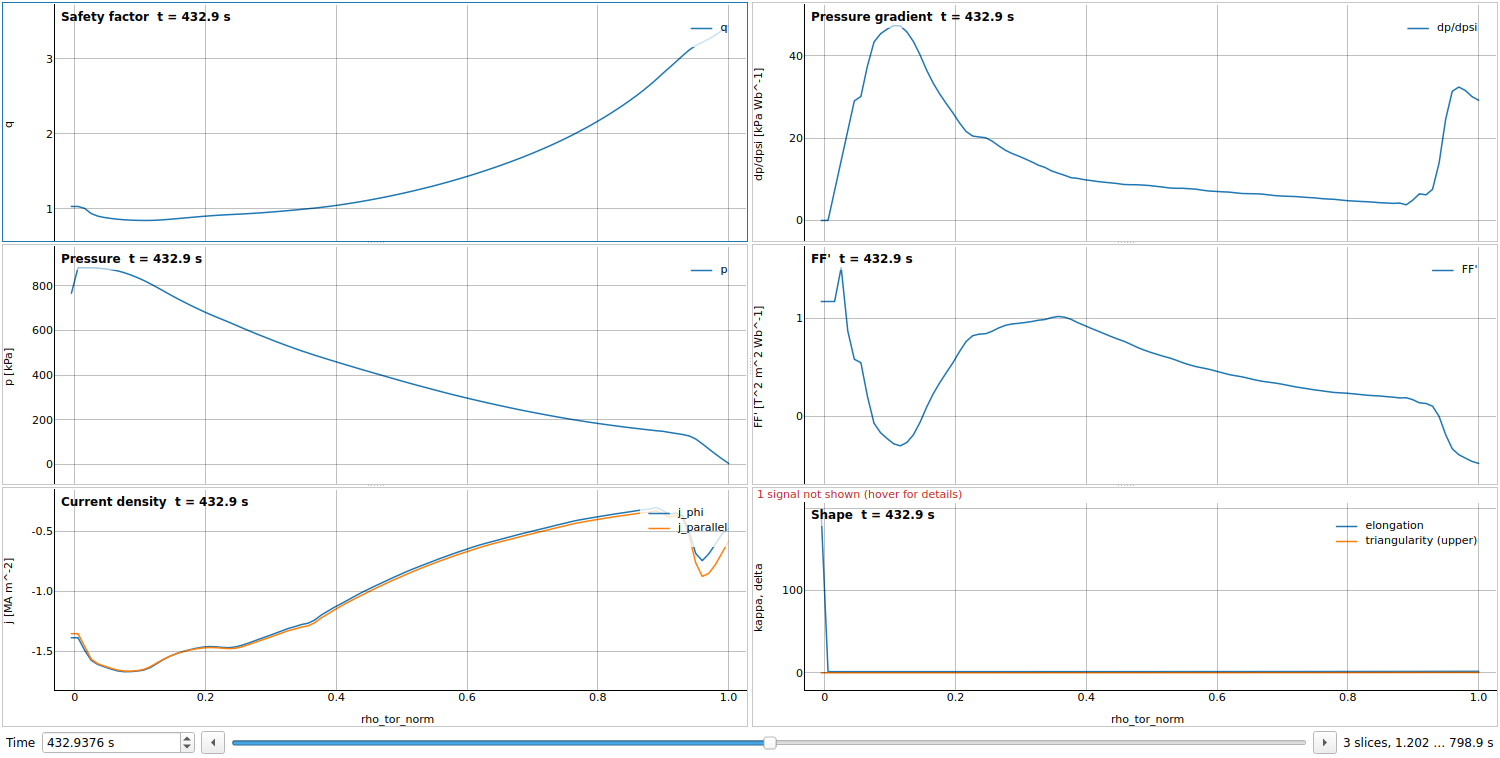
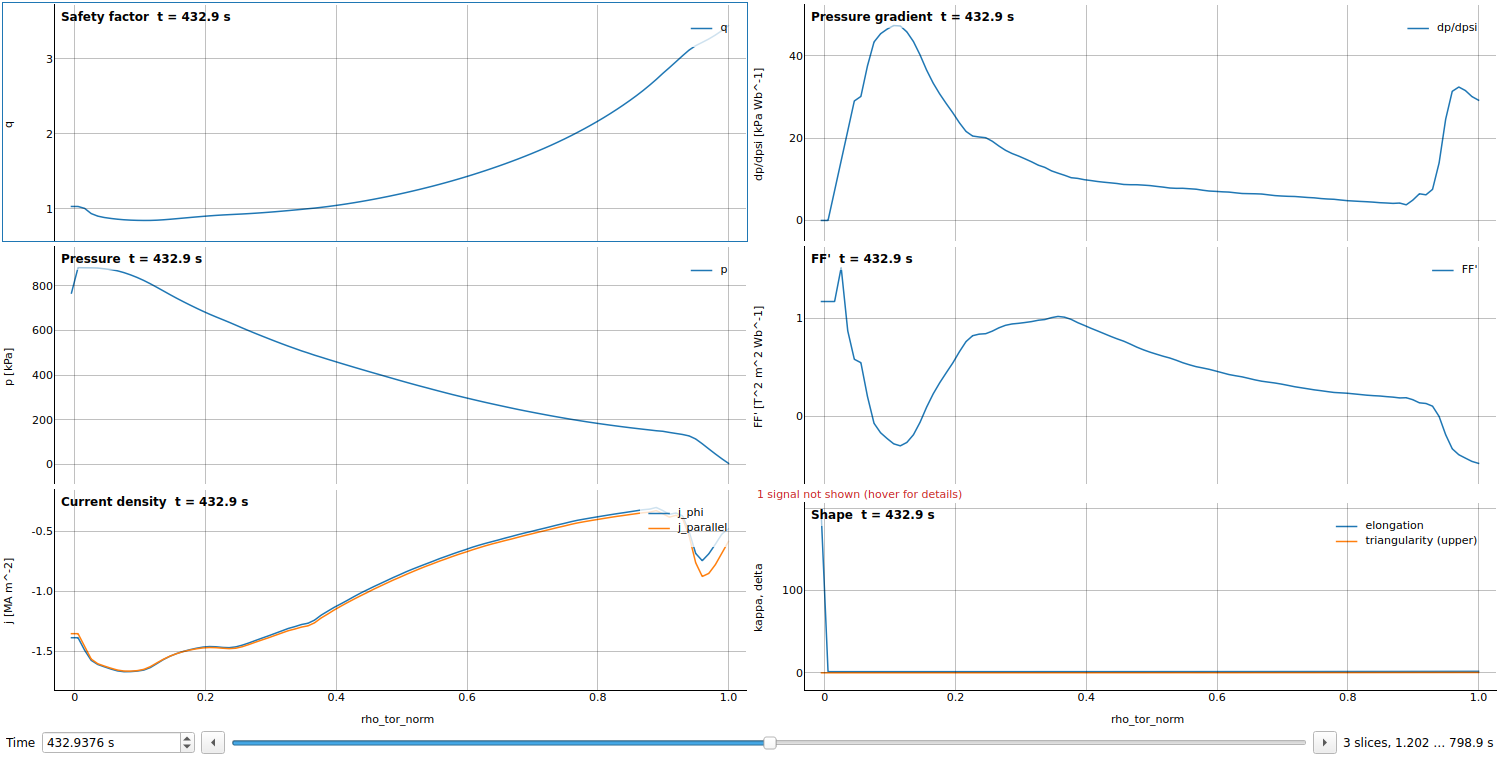
style: no gray lines between the panels
The panels had a gray frame each and the splitters between them a grip,
which together drew a gray band between the plots. Only the current
panel is framed now (in blue), and the handles between the panels draw
nothing: the panels are told apart by white space and their own axes.
The handles can still be dragged. The screenshots of the README show it.

Claude-Session: https://claude.ai/code/session_018aVekYzCRLPE71Mm6UH8Zp

diff --git a/src/idscope/gui/mainwindow.py b/src/idscope/gui/mainwindow.py
@@ -162,8 +162,7 @@ class MainWindow(QtWidgets.QMainWindow):
         self._session_timer.setInterval(SESSION_DELAY_MS)
         self._session_timer.timeout.connect(self._write_session)
         self.resize(1300, 850)
-        # White around the plots as well (their headers, the time bar, the docks);
-        # the panels are told apart by their borders
+        # White around the plots as well (their headers, the time bar, the docks)
         palette = self.palette()
         palette.setColor(QtGui.QPalette.ColorRole.Window, QtGui.QColor("white"))
         self.setPalette(palette)
@@ -376,6 +375,9 @@ class MainWindow(QtWidgets.QMainWindow):
         splitter = QtWidgets.QSplitter(QtCore.Qt.Orientation.Horizontal)
         splitter.setChildrenCollapsible(False)
         splitter.setHandleWidth(4)
+        # Handles (of the columns too) without the grip the style would draw: only
+        # white between the panels
+        splitter.setStyleSheet("QSplitter::handle { background: transparent; }")
         # emitted when the user drags a handle, not when the window is resized
         splitter.splitterMoved.connect(self._on_splitter_moved)
         for column in self.config.columns:

diff --git a/tests/test_gui.py b/tests/test_gui.py
@@ -42,6 +42,16 @@ def test_demo_layout(window):
     assert window.panels[6].image_selector.count() == 2
 
 
+def test_only_the_current_panel_is_framed(window):
+    from idscope.gui.style import CURRENT_PANEL_COLOR
+
+    window.set_current_panel(window.panels[2])
+    framed = [CURRENT_PANEL_COLOR in panel.styleSheet() for panel in window.panels]
+    assert framed == [i == 2 for i in range(len(window.panels))]
+    assert all("transparent" in panel.styleSheet()
+               for panel in window.panels if panel is not window.current_panel)
+
+
 def test_time_moves_profiles_and_maps(window):
     te, psi = window.panels[3], window.panels[6]
     y_before = te.curves[0].item.yData.copy()

diff --git a/src/idscope/gui/panel.py b/src/idscope/gui/panel.py
@@ -356,7 +356,9 @@ class Panel(QtWidgets.QFrame):
         )
 
     def set_current(self, current: bool) -> None:
-        color = style.CURRENT_PANEL_COLOR if current else "#c8c8c8"
+        """Frame the current panel; the others have no frame (their axes tell them
+        apart), which keeps them clear of gray lines."""
+        color = style.CURRENT_PANEL_COLOR if current else "transparent"
         self.setStyleSheet(f"Panel {{ border: 1px solid {color}; }}")
 
     def apply_config(self) -> None:
